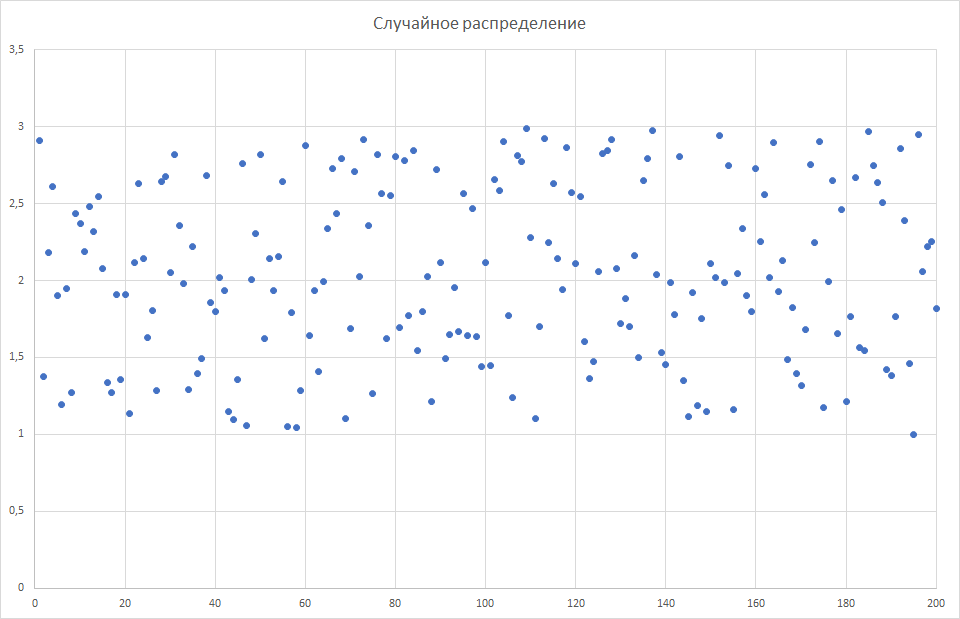
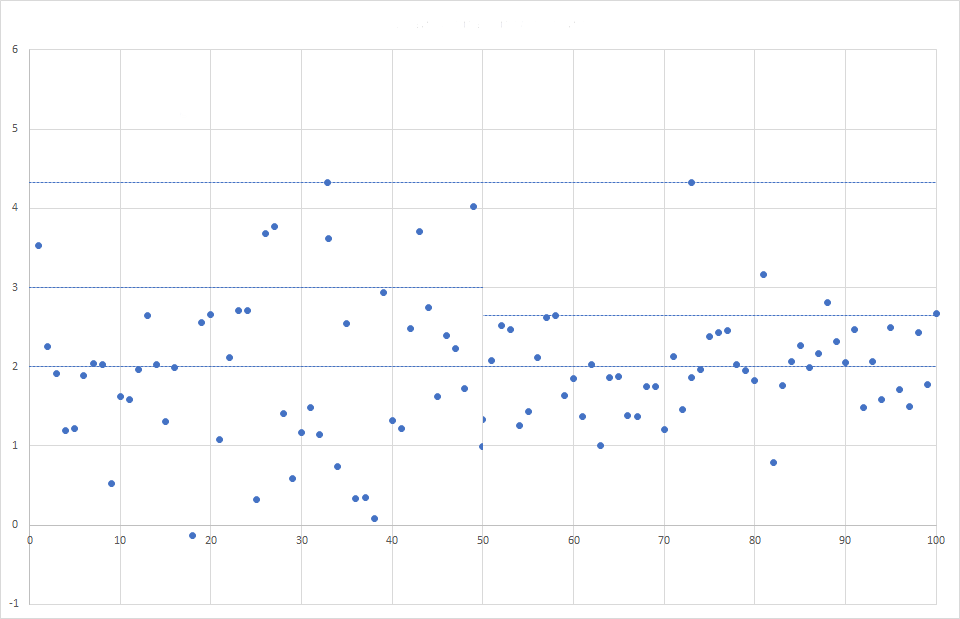
Написал много про фильтр Калмана

diff --git a/articles/fsharp-gps-tracks-filtration/3.md b/articles/fsharp-gps-tracks-filtration/3.md
@@ -7,13 +7,13 @@ mathjax: true
 
 ## Фильтр Калмана
 
-Мы добрались до самого интересного&nbsp;&mdash; сглаживания треков. Программа, которую мы напишем, будет короткой и простой, но за этой простотой скрывается нетривиальная математика.
+Мы добрались до самого интересного&nbsp;&mdash; сглаживания треков. Программа, которую мы напишем, окажется простой и короткой, но за этой простотой скрывается нетривиальная математика.
 
-Попробуем разобраться.
+Чтобы не запутаться, будем рассуждать последовательно.
 
 ### Модель
 
-В чём задача сглаживания? На автомобиле установлен датчик GPS, который определяет его координаты каждые несколько секунд. Показания датчика не очень точные, поэтому трек получается неровным.
+В чём задача сглаживания? На автомобиле установлен датчик GPS, который определяет координаты каждые несколько секунд. Показания датчика не очень точные, поэтому трек получается неровным.
 
 Чтобы его *выровнять*, нам нужно что-то, что позволит исправлять ошибки датчика. В методе Калмана это *что-то*&nbsp;&mdash; математическая модель.
 
@@ -29,122 +29,110 @@ $$
 
 Это и есть модель движения автомобиля. Мы видим, что она простая, и не учитывает, например, *ускорения*, поэтому её предсказания будут обладать *погрешностью*.
 
-Математически идею идею погрешности можно выразить, добавив в равенство случайную величину. Обозначим её греческой буквой *кси*, $\xi$.
+Математически идею погрешности можно выразить, добавив в равенство случайную величину. Математики традиционно используют для обозначения величин самые странные буквы древних алфавитов. В теории вероятностей особой любовью пользуется греческий алфавит, поэтому обозначим погрешность буквой *кси*, $\xi$.
 
 $$
 x_{i+1} = x_i + u_i \Delta t + \xi_i
 $$
 
-Индекс $i$ у $\xi$ показывает, что пограшеность в каждой точке разная. Действительно ли она случайна? Мы не знаем. Наверное можно было бы сделать модель сложнее, и вычислять погрешность с большей точностью, но у нас нет задачи строить сложные модели.
+Индекс $i$ у $\xi$ показывает, что погрешность в каждой точке разная. Действительно ли она случайна? Мы не знаем. Наверное мы могли бы сделать модель сложнее, и вычислять погрешность с большей точностью, но у нас нет задачи строить сложные модели.
 
 На практике не важно, действительно ли погрешность случайна или она только *похожа* на случайную&nbsp;&mdash; мы в любом случае можем применить к ней математический аппарат.
 
-### Вспоминаем теорию вероятностей
+### Вспоминая теорию вероятностей
 
-Поскольку погрешность это *непрерывная случайная величина*, при каждом измерении мы будем получать новое значение, которое невозможно предсказать заранее. Проведя множество измерений, мы сможем утверждать о случайной величине кое-что определённое.
+Поскольку погрешность это *непрерывная случайная величина*, при каждом измерении мы будем получать новое значение, которое невозможно предсказать заранее. Но, проведя множество измерений, мы сможем утверждать о случайной величине кое-что определённое.
 
 ![Случайная величина](/img/kalman-2.png){: .picture}
 
-Первое что характеризует случайную величину, это &laquo;центр&raquo; вокруг которого концентруются значения. Он называется *математическим ожиданием* и обозначается буквой $E$ от *expectation*&nbsp;&dash; *ожидание*. Математическое ожидание вычисляется как среднее арифметическое всех имеющихся значений.
+Взгляните на иллюстрацию. Я свёл две случайные величины, которые объединяет одна характеристика. Вы видите, что значения во всех испытаниях сосредоточены вокруг единого центра. Вычислив *среднее арифметическое* всех величин, узнаем значение, которое *ожидаем* обычно. Оно так и называется&nbsp;&mdash; математическое ожидание&nbsp;&mdash; и обозначается буквой $E$, где $E$&nbsp;&mdash; первая буква слова *expectation*.
 
 $$
 E \xi = \frac{\xi_1 + \xi_2 + ... + \xi n}{n}
 $$
 
-На приведённом рисунке среднее случайной величины равно 2. Кроме среднего, мы можем рассчитать *меру разброса*.
+На иллюстрации математическое ожидание $E \xi$ у обеих величины равно двум.
 
-Ещё раз посмотрим на график. Мы видим, что разброс достигает единицы, но это максимальное значение.
+Вторая характеристика случайной величины&nbsp;&mdash; это разброс. В левой половине графика значения находятся чуть дальше от центра, а в правой&nbsp;&mdash; чуть ближе. Может ли максимальный разброс служить мерой разброса? Нет. В левой и правой половине графика максимальное значение совпадает у обеих величин, но в среднем разброс слева больше.
 
-
-Прежде, чем двигаться дальше, давайте вспомним основные положения теории вероятностей.
-
-Здесь $x^r_i$ это *реальная* координата (верхний индекс *r* от слова *real*), а $x^a_i$&nbsp;&mdash; *приближение* (*a* от слова *approximation*). Греческой буквой *кси* ($\xi$) мы обозначили *погрешность*.
-
-Чему равна погрешность? Мы не знаем. Возможно, её можно вычислить, используя более точную модель и рассчитав разницу. Но мы упростим себе рассуждения, предположив, что погрешность&nbsp;&mdash; это случайная величина.
-
-Погрешностью обладает не только модель, но и датчик GPS:
+Разница $\xi - E \xi$ может быть как отрицательной, так и положительной. Для того, чтобы всегда получать положительное значение, возведём её в квадрат. Вычислим математическое ожидание квадрата разницы&nbsp;&mdash; это и будет мера разброса или *дисперсия*.
 
 $$
-x^s_i = x^r_i + \eta_i
+\sigma^2_\xi = E(\xi - E \xi)^2
 $$
 
-$x^s_i$ это координата, полученная с датчика, который по английски называется *sensor*. Чтобы не путать разные погрешности, погрешность датчика мы обозначим греческой буквой *эта* ($\eta$).
-
-У нас две греческие буквы, и три верхних индекса *r*, *a* и *s*&nbsp;&mdash; пока ничего страшного.
-
-
-
-Итак, в точке $i$ датчик вовзращает нам координату $x^s_i$ и скорость $u^s_i$. Мы хотим скорректировать координату, чтобы сделать трек более гладким.
-
-В результате применения фильтра мы получим достаточно хорошее *приближение* координаты $x$ к идеалу. Мы будем помечать скорректированную координату буквой *a* от слова *approximation* (*приближение*).
-
-Через время $\Delta t$ на шаге $i + 1$ мы получаем координату от датчика $x^s_{i+1}$ и попробуем вычислить следующее приближение $x^a_{i+1}$.
-
-Что для этого нужно? Вы не поверите, но это ещё одна координата, на этот раз реальная координата автомобиля, которую мы обозначим $x^r_{i+1}$. Буква $r$ первая в слове *real* (*реальная*).
-
-На самом деле мы не знаем реальной координаты, но она позволяет выразить приближение через показания сенсора.
-
+Погрешность измеряется в метрах, а её дисперсия&nbsp;&mdash; в метрах-в-квадрате. Это не всегда удобно, поэтому помимо дисперсии в теории вероятностей оперируют *стандартным отклонением*.
 
 $$
-x^r_{i+1} = x^r_i + u^s_i \Delta t
+\sigma_\xi = \sqrt{E(\xi - E \xi)^2}
 $$
 
-Эта модель движения работает с погрешностью, поскольку не учитывает ускорения, ускорения ускорения, поворотов и других факторов. Вместо усложения и уточнения модели мы явно обозначим разницу греческой буквой *кси*, как часто обозначают случайные величины. Конечно, погрешность не является случайной величиной, но мы можем считать её таковой. Так иногда делают в физике, чтобы упростить расчёты. Запишем формулу определения следующей координаты с учётом погрешности:
+Стандартное отклонение в левой половине иллюстрации равно 1, а в правой&nbsp;&mdash; 0,6.
+
+Но вернёмся к погрешности модели. Чему может быть равно её математическое ожидание? Модель иногда даёт перекос в большую сторону, иногда в меньшую, но в среднем точно оценивает пройденное расстояние. Это значит, что среднее арифметическое погрешности должно быть равно нулю: $E \xi = 0$.
+
+Если это так, то дисперсия погрешности равна $E(\xi - E \xi)^2 = E(\xi - 0)^2 = E \xi^2$.
+
+### Датчик
+
+Датчик GPS тоже обладает погрешностью. По сложившейся традиции, обозначим её греческой буквой с необычной внешностью, например, буквой *эта*.
 
 $$
-x^r_{i+1} = x^r_i + u^s_i \Delta t + \xi_i
+x^s_i = x_i + \eta_i
 $$
 
-Индекс $i$ у буквы $\xi$ означает, что погрешности в каждой точке измерения будут разными.
+$x^s_i$ означает не возвещение в степень $s$, а величину $x_i$ помеченую буквой $s$. Так мы обозначим координату, полученную с датчика (*сенсора*&nbsp;&mdash; *sensor*).
 
-Если мы измеряем расстояние в метрах, то значение погрешности также будет в метрах, например, +0,5 метра или -0,3 метра. У нас много значений погрешности, поэтому мы можем посчитать *среднее*&nbsp;&mdash; $E \xi$. $E$ это сокращение от *expectation*, то есть *ожидание*. *Математическое ожидание*&nbsp;&mdash; другое название для среднего.
-
-
-> Если у нас хорошая модель, математическое ожидание погрешности будет равным нулю: все положительные ошибки нивелируются отрицательными. В дальнейшем мы предполагаем, что речь идёт о хорошей модели и $E \xi = 0$.
-
-Кроме ожидания случайная величина характеризиуется разбросом, то есть тем, насколько далеко она находится от среднего значения. Традиционно мерой разброса является *дисперсия*, которая обозначается маленькой буквой *сигма*:
+Погрешность датчика может быть положительной и отрицательной. Если датчик работает правильно, математическое ожидание погрешности будет нулю.
 
 $$
-\sigma \xi^2 = E(\xi - E \xi)^2
+E \eta = 0, \sigma^2_\eta = E(\eta - E \eta)^2 = E(\eta - 0)^2 = E \eta^2.
 $$
 
-$\sigma \xi$&nbsp;&mdash; *среднеквадратичное отклонение*, *стандартное отклонение* или *стандартный разброс*. Вычисляется, как квадратный корень из дисперсии.
+### Рекурсивный метод
 
-Подключим к нашей машине GPS-трекер, который будет возвращать её координату. Поскольку сенсор работает с погрешностью, координата сенсора будет отличаться от реальной координаты на случайную величину, которую мы обозначим греческой буквой *эта*.
+Фильтр Калмана работает *рекурсивно*. Предположим, что нам известна координата $x^a_i$, вычисленная на предыдущем шаге алгоритма, и мы хотим вычислить следующую координату $x^a_{i+1}$. Буква $a$&nbsp;&mdash; первая в слове *appoximation*, то есть *приближение*.
 
-$$
-x^s_{i + 1} = x^r_{i + 1} + \eta_{i + 1}
-$$
+Нам известны скорость $u^s_i$, которую датчик GPS определил на предыдущем шаге, и текущая координата, полученная с датчика сейчас $x^s_{i+1}$.
 
-Здесь $x^r_{i + 1}$&nbsp;&mdash; истинное значение координаты, а $\eta_{i + 1}$&nbsp;&mdash; случайная погрешность сенсора.
+Новое приближение будет находиться где-то между координатой датчика $x^s_{i+1}$ и координатой, вычисленной по модели, т. е. $x^a_i + u^s_i \Delta t$.
 
-> Как и в случае с моделью, мы предполагаем, что математическое ожидание погрешности сенсора равно 0: $E \eta = 0$.
-
-### Постановка задачи
-
-Предположим, мы находимся где-то в середине пути, в точке $i$. Предположим, мы вычислили координату $x$ в $i$-той точке, $x^a_i$. Буква *a* означает *approximation*, то есть *приближение*.
-
-Сенсор возвращает нам текущую координату $x^s_i$ и скорость $u^s_i$.
-
-Через время $\Delta t$ мы получаем с сенсора координату $x^s_{i+1}$.
-
-Опираясь на модель, мы можем предсказать следующую координату: $x^a_i + u^s_i \Delta t$.
-
-Предполагается, что следующая координата, которую мы вычислим, находится где-то между предсказанной и полученной с сенсора. Задача нахождения значения функции внутри интервала назыается *интерполяцией*. Простейшая интерполяция&nbsp;&mdash; *линейная*.
+Чтобы найти это *между*, воспользуемся простой *линейной интерполяцией*.
 
 $$
 x^a_{i+1} = K x^s_{i+1} + (1 - K)(x^a_i + u^s_i \Delta t)
 $$
 
-Здесь $K$&nbsp;&mdash; это коэффициент Калмана, который показывает, какой *вес* имеют показания сенсора. Если вес сенсора равен 30%, то вес модели 70%. Значение коэффициента находится в интервале от 0 до 1 включительно.
+Коэффициент $K$ определяет относительные &laquo;веса&raquo; датчика и модели. При $K = 1$ координата определяется только датчиком, а при $K = 0$&nbsp;&mdash; только моделью.
 
-*Ошибкой предсказания* назовём разницу между $x^r_{i+1}$ и $x^a_{i+1}$:
+*Ошибкой предсказания* назовём разницу между реальной координатой $x_{i+1}$ и предсказанной $x^a_{i+1}$.
 
 $$
-e_{i+1} = x^r_{i+1} - x^a_{i+1}
+e_{i+1} = x_{i+1} - x^a_{i+1}
 $$
 
-Наша задача&nbsp;&mdash; минимизировать ошибку. Если взглянуть на формулу вычисления $x^a_{i+1}$, мы видим, что, изменяя $K$, можем изменить результат, следовательно нам на каждом шаге надо пересчитывать $K$, чтобы минимизировать ошибку.
+### Магия
+
+Мы хотим минимизировать ошибку $e_{i+1}$. Как это сделать? Первый ответ, который приходит в голову&nbsp;&mdash; никак. Ошибка&nbsp;&mdash; это случайная величина, значения которой мы не знаем.
+
+Тупик.
+
+Математики, оказавшись в тупике, смотрят на задачу с непривычных точек зрения. Да, мы не знаем, чему равна $e_{i+1}$, но предположим, что мы много раз поставили эксперимент с автомобилем. Тогда мы сможем посчитать математическое ожидание ошибки $E e_{i+1}$&nbsp;&mdash; оно постоянно, и его можно минимизировать.
+
+Звучит интересно.
+
+Впрочем, повозившись с формулами, мы снова окажемся в тупике. Формулы слишком сложные и мы не можем их упростить.
+
+Идея Калмана кажется совершенно парадоксальной&nbsp;&mdash; мы должны вычислять не ожидание ошибки, а квадрат ожидания $E e^2_{i+1}$.
+
+Не похоже на простое решение, не так ли? Давайте проверим.
+
+### 
+
+Нам, определённо, нужно чудо, и математика его предоставляет. Как и в других трудных случаях, задача требует взгляда с непривычной точки зрения.
+
+
+Если взглянуть на формулу вычисления $x^a_{i+1}$, мы видим, что, изменяя $K$, можем изменить результат, следовательно нам на каждом шаге надо пересчитывать $K$, чтобы минимизировать ошибку.
 
 Мы будем минимизировать квадрат ошибки, то есть $E e^2_{i+1}$.
 
